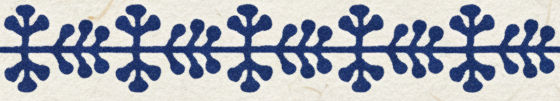
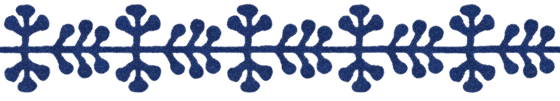
what if

diff --git a/components/WhatIs.tsx b/components/WhatIs.tsx
@@ -20,41 +20,23 @@ const WhatIs = () => {
       </div>
 
       <div className="flex flex-col lg:flex-row items-center gap-10">
-        <div className="relative w-full lg:w-1/2">
-  {/* Tiled border using pseudo-elements */}
-  <div className="absolute inset-0 pointer-events-none">
-    {/* Top Border */}
-    <div
-      className="absolute top-10 left-0 w-full h-16 bg-repeat-x"
-      style={{ backgroundImage: `url(${borderTile.src})` }}
-    />
-    {/* Bottom Border */}
-    <div
-      className="absolute bottom-0 left-0 w-full h-16 bg-repeat-x"
-      style={{ backgroundImage: `url(${borderTile.src})` }}
-    />
-    {/* Left Border */}
-    <div
-      className="absolute top-0 left-0 w-16 h-full bg-repeat-y"
-      style={{ backgroundImage: `url(${borderTile.src})` }}
-    />
-    {/* Right Border */}
-    <div
-      className="absolute top-0 right-0 w-16 h-full bg-repeat-y"
-      style={{ backgroundImage: `url(${borderTile.src})` }}
-    />
-  </div>
-
-  {/* Main Image */}
-  <Image
-    src={heroImage}
-    alt="Block Printing"
-    width={600}
-    height={600}
-    className="w-full h-auto object-cover relative z-10"
-  />
-</div>
-
+        {/* Image with Tiled Border */}
+        <div
+          className="p-[10px] relative"
+          style={{
+            backgroundImage: `url(${borderTile.src})`,
+            backgroundRepeat: "repeat",
+            backgroundSize: "10%", // just like Figma’s "Tile 10%"
+          }}
+        >
+          <Image
+            src={heroImage}
+            alt="Block Printing"
+            width={600}
+            height={600}
+            className="w-full h-auto object-cover block"
+          />
+        </div>
 
         {/* Right Content */}
         <div className="flex-1 text-center lg:text-left">
@@ -68,13 +50,13 @@ const WhatIs = () => {
           <div className="mt-6 flex justify-center lg:justify-start gap-4">
             <a
               href="/our-story"
-              className="px-6 py-3 bg-tech_primary text-white font-semibold rounded shadow hover:bg-tech_dark transition-colors"
+              className="px-6 py-3 bg-tech_primary text-white font-semibold rounded shadow hover:bg-tech_gold hover:text-primary transition-colors"
             >
               READ OUR STORY
             </a>
             <a
               href="/how-to-care"
-              className="px-6 py-3 border border-tech_primary text-tech_primary font-semibold rounded shadow hover:bg-tech_primary hover:text-white transition-colors"
+              className="px-6 py-3 border border-tech_gold text-tech_primary font-semibold rounded shadow hover:bg-tech_gold hover:text-white transition-colors"
             >
               HOW TO CARE
             </a>
